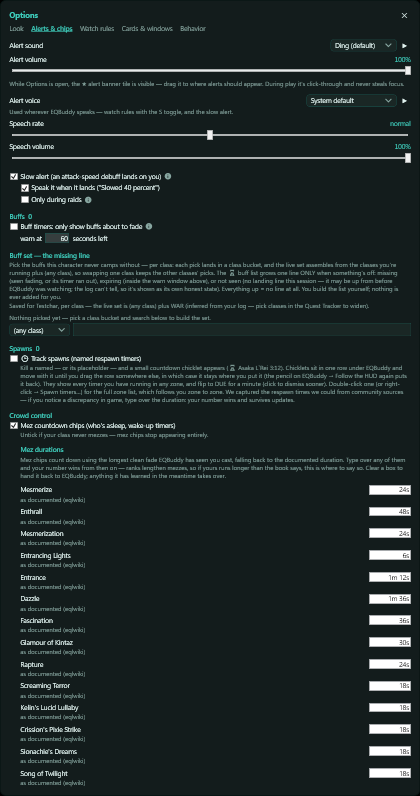
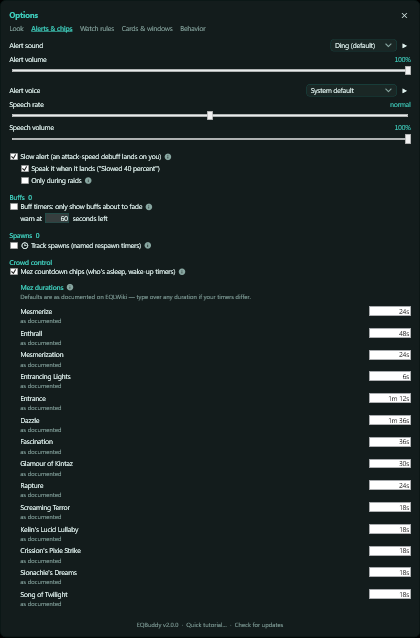
DRA-355: carry D1's two-row wording into the Track spawns hover; shoot options-mez
The rebase onto DRA-354 (D1) met D3's hover move in SettingsAlertsView: D1 had
re-worded the body paragraph D3 moves onto the i. The hover now says respawn has
its own row, tightened to stay inside the 30 s tooltip budget
(SettingsProsePass2Tests measured 30.6 s on the first merge).

Changed region(s): [[0.0, 0.0, 0.9905, 1.0], [0.3405, 0.953, 0.5262, 0.9828], [0.5571, 0.953, 0.681, 0.9828]]

diff --git a/src/EQBuddy/SettingsAlertsView.cs b/src/EQBuddy/SettingsAlertsView.cs
@@ -123,8 +123,8 @@ internal sealed class SettingsAlertsView
     /// </summary>
     private const string TrackSpawnsBlurb =
         "Kill a named — or its placeholder — and a countdown chicklet appears "
-        + "(⏳ Asaka L`Rei 3:12). Respawn chicklets get a row of their own, separate from the "
-        + "mez row, under EQBuddy; it moves with EQBuddy until you drag it somewhere else (the "
+        + "(⏳ Asaka L`Rei 3:12). Respawn chicklets have their own row, apart from mez, under "
+        + "EQBuddy; it moves with EQBuddy until you drag it elsewhere (the "
         + "pencil on EQBuddy → Follow the HUD again puts it back). They show every timer running in any zone, and flip to DUE for a minute "
         + "(click to dismiss sooner). Double-click one (or right-click → Spawn timers…) for the "
         + "full zone list. Respawn times come from community sources — if one is wrong in game, "
